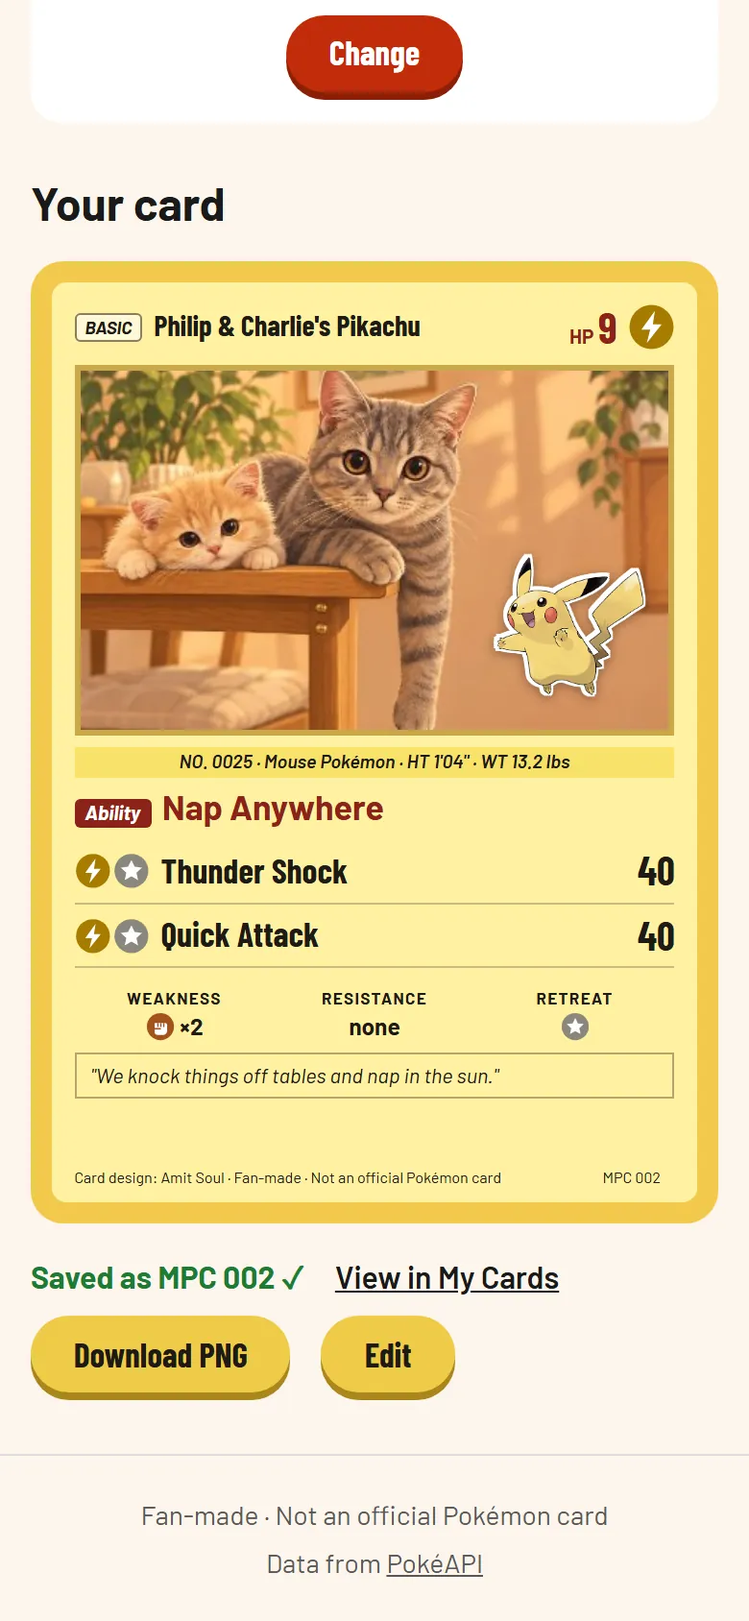
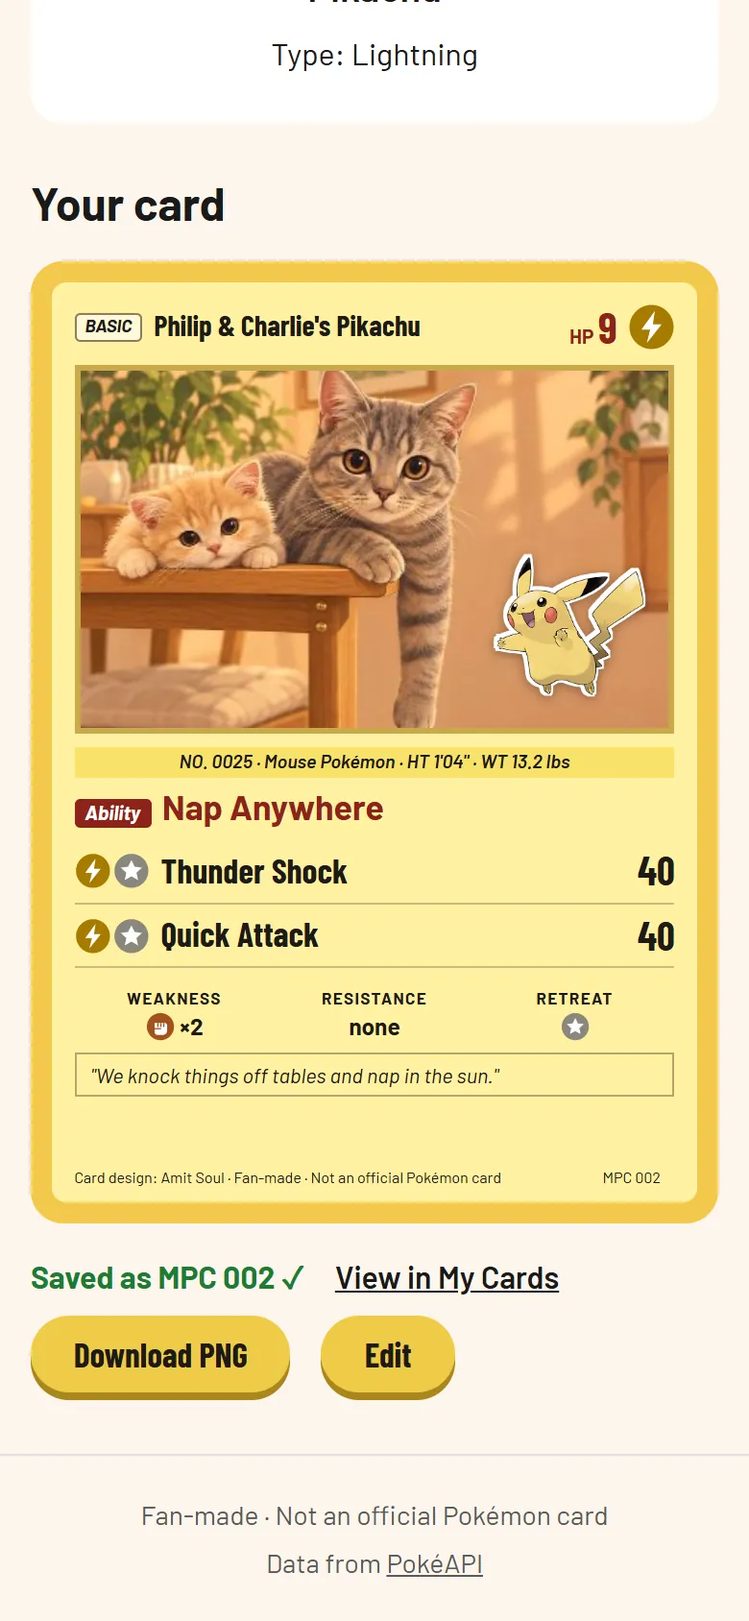
docs: Create page with the Pokémon search — PRD, CARD_SPEC, tasks, checklist, README and phone screenshot (C4)

diff --git a/docs/requirements-checklist.md b/docs/requirements-checklist.md
@@ -12,23 +12,23 @@
 | React + Vite | ✅ | `vite.config.ts`, `src/main.tsx` |
 | TypeScript | ✅ | Task 5 — every file in `src/` is `.ts`/`.tsx`; `tsconfig.json` + `tsconfig.app.json` (`strict: true`) + `tsconfig.node.json` |
 | Types (`type`/`interface`) for API data | ✅ | `src/types/pokemon.ts` (`SpeciesCountResponse`, `PokemonListResponse`, `PokemonDetailsResponse`, `TypeResponse`, plus `PokemonSummary`, `CardType`); typed fetch `fetchJson<T>` in `src/utils/api.ts` |
-| Types for every component's props | ✅ | A `…Props` interface in each component that has props: `NavBar`, `Logo`, `SiteFooter`, `PokemonList`, `PokemonListItem`, `PokemonDetails`, `SearchBar`, `CardTypeFilter`, `FavoritePokemonField`, `FormField`, `CardForm`, `PhotoField`, `InlineConfirm`, `AttackList`, `AttacksBlock`, `PokeCard`, `TypeSymbol`, `WeaknessRow`, `CardSticker`, `SavedNotice`, `SavedCardItem`, `FavoriteButton`, `DownloadPngButton` (`NavBar`, `Logo` and `SiteFooter` have no props). Callbacks are typed too |
+| Types for every component's props | ✅ | A `…Props` interface in each component that has props: `NavBar`, `Logo`, `SiteFooter`, `PokemonList`, `PokemonListItem`, `PokemonDetails`, `SearchBar`, `CardTypeFilter`, `FormField`, `CardForm`, `PokemonPicker`, `PokemonPreview`, `PhotoField`, `InlineConfirm`, `AttackList`, `AttacksBlock`, `PokeCard`, `TypeSymbol`, `WeaknessRow`, `CardSticker`, `SavedNotice`, `SavedCardItem`, `FavoriteButton`, `DownloadPngButton` (`NavBar`, `Logo` and `SiteFooter` have no props). Callbacks are typed too |
 | No `any` | ✅ | None in `src/`; `strict: true` blocks hidden `any`, and the lint rule `typescript/no-explicit-any` (error) in `.oxlintrc.json` blocks written ones |
 | `npm run dev` with no console errors | ✅ | Checked by hand after every task, and at the end of task 12 with the Console open (Preserve log) through the whole flow: list search, Type filter and Load more; details; Create with a photo, drag the sticker, Edit, Create, Save, Download PNG; My Cards heart, Favorites, Delete ("Keep it", then "Yes"); `/abc`, `/pokemon/abc`, `/create/abc`. No errors or warnings from our code. Only `/pokemon/99999` shows the browser's own "404" network line (twice in dev, because of React StrictMode): that is the API's answer, and the page shows "Pokémon not found". The tests also fail on any `console.error` or `console.warn` (`src/test/setup.ts`) |
 | `npm run build` passes | ✅ | `tsc -b && vite build` in `package.json` — type check, then build; passes after task 5 |
-| At least 4 own components (not pages), one per file | ✅ | 23 in `src/components/`: `NavBar`, `Logo`, `SiteFooter`, `PokemonList`, `PokemonListItem`, `PokemonDetails`, `SearchBar`, `CardTypeFilter`, `FavoritePokemonField`, `FormField`, `CardForm`, `PhotoField`, `InlineConfirm`, `AttackList`, `AttacksBlock`, `PokeCard`, `TypeSymbol`, `WeaknessRow`, `CardSticker`, `SavedNotice`, `SavedCardItem`, `FavoriteButton`, `DownloadPngButton`. (`ChangeWarning` was replaced by the general `InlineConfirm`.) Pages are separate, in `src/pages/`: `HomePage`, `PokemonListPage`, `PokemonDetailsPage`, `CreateCardPage`, `MyCardsPage`, `NotFoundPage` |
+| At least 4 own components (not pages), one per file | ✅ | 24 in `src/components/`: `NavBar`, `Logo`, `SiteFooter`, `PokemonList`, `PokemonListItem`, `PokemonDetails`, `SearchBar`, `CardTypeFilter`, `PokemonPicker`, `PokemonPreview`, `FormField`, `CardForm`, `PhotoField`, `InlineConfirm`, `AttackList`, `AttacksBlock`, `PokeCard`, `TypeSymbol`, `WeaknessRow`, `CardSticker`, `SavedNotice`, `SavedCardItem`, `FavoriteButton`, `DownloadPngButton`. (`ChangeWarning` was replaced by the general `InlineConfirm`.) (`FavoritePokemonField` became `PokemonPreview` when the Pokémon became a search.) Pages are separate, in `src/pages/`: `HomePage`, `PokemonListPage`, `PokemonDetailsPage`, `CreateCardPage`, `MyCardsPage`, `NotFoundPage` |
 | React Router | ✅ | `react-router` v8: `BrowserRouter` in `src/main.tsx`, `Routes`/`Route` in `src/App.tsx` |
 | List page | ✅ | `/pokemon` → `src/pages/PokemonListPage.tsx` (`/` is the landing page, `src/pages/HomePage.tsx`) |
 | Details page `/pokemon/:id` with `useParams` | ✅ | `src/pages/PokemonDetailsPage.tsx` reads `id` with `useParams` (checked by `parsePokemonId` in `src/utils/pokemonId.ts`) and fetches the details; display in `src/components/PokemonDetails.tsx` |
-| At least 2 more pages where the user does something | ✅ | 1) **Create card** (`/create`, `/create/:id`, `src/pages/CreateCardPage.tsx`): choose a Pokémon, fill 5 validated fields with a photo, see and save the card, download it. 2) **My Cards** (`/my-cards`, `src/pages/MyCardsPage.tsx`): saved cards, favorites, All/Favorites filter, download, delete. (The 404 page doesn't count — the user doesn't do anything there.) |
+| At least 2 more pages where the user does something | ✅ | 1) **Create card** (`/create`, `/create/:id`, `src/pages/CreateCardPage.tsx`): search and pick a Pokémon, fill 5 validated fields with a photo, see and save the card, download it. 2) **My Cards** (`/my-cards`, `src/pages/MyCardsPage.tsx`): saved cards, favorites, All/Favorites filter, download, delete. (The 404 page doesn't count — the user doesn't do anything there.) |
 | Nav menu with `Link`/`NavLink` | ✅ | `src/components/NavBar.tsx`: the page header with the logo (`Logo.tsx`, a `Link` to `/`) and three `NavLink`s: "Find a Pokémon" (`/pokemon`, also active on `/pokemon/:id`, not on an invalid id), "Create card" (also on `/create/:id`, not on an invalid id) and "My Cards"; the active link is highlighted |
 | List with `map` + unique `key` | ✅ | `src/components/PokemonList.tsx` (`key={pokemon.id}`), `CardTypeFilter.tsx` |
 | Clicking an item opens its details page | ✅ | Each card in `src/components/PokemonListItem.tsx` is a `Link` to `/pokemon/{id}` |
-| Data passed via props | ✅ | `HomePage` → `PokeCard` (the two example cards, from `src/data/sampleCards.ts`); `PokemonListPage` → `PokemonList` → `PokemonListItem`; `PokemonListPage` → `SearchBar`, `CardTypeFilter`; `PokemonDetailsPage` → `PokemonDetails`, `AttacksBlock` (→ `AttackList` → `TypeSymbol`), `WeaknessRow`; `CreateCardPage` → `FavoritePokemonField`, `InlineConfirm`, `CardForm` (→ `FormField`, `PhotoField`), `PokeCard` (→ `CardSticker`, `AttacksBlock`, `WeaknessRow`, `TypeSymbol`), `SavedNotice`, `DownloadPngButton`; `MyCardsPage` → `SavedCardItem` (→ `PokeCard`, `FavoriteButton`, `DownloadPngButton`, `InlineConfirm`) |
+| Data passed via props | ✅ | `HomePage` → `PokeCard` (the two example cards, from `src/data/sampleCards.ts`); `PokemonListPage` → `PokemonList` → `PokemonListItem`; `PokemonListPage` → `SearchBar`, `CardTypeFilter`; `PokemonDetailsPage` → `PokemonDetails`, `AttacksBlock` (→ `AttackList` → `TypeSymbol`), `WeaknessRow`; `CreateCardPage` → `CardForm` (→ `PokemonPicker`, `FormField`, `PhotoField`), `PokemonPreview`, `PokemonPicker` (above a shown card), `PokeCard` (→ `CardSticker`, `AttacksBlock`, `WeaknessRow`, `TypeSymbol`), `SavedNotice`, `DownloadPngButton`; `MyCardsPage` → `SavedCardItem` (→ `PokeCard`, `FavoriteButton`, `DownloadPngButton`, `InlineConfirm`) |
 | `fetch` inside `useEffect` with loading / error / data states | ✅ | `src/pages/PokemonListPage.tsx` (list, Type filter); `src/hooks/usePokemonDetails.ts` (one Pokémon, plus "Pokémon not found" for API 404); `src/hooks/usePokemonCardInfo.ts` (genus + attacks, via `src/utils/moveApi.ts`) — used by the details page and the Create card page, each with Try again |
 | Search or filter | ✅ | `SearchBar.tsx` (by name) + `CardTypeFilter.tsx` (by Type), logic in `PokemonListPage.tsx`; both kept in the URL (`/pokemon?q=char&type=Fire`) |
-| Vitest: 5+ passing tests on real logic | ✅ | 208 logic tests in 16 files in `src/utils/`: `cardForm.test.ts` (46), `cardRules.test.ts` (28, incl. every CARD_SPEC example), `savedCards.test.ts` (27, incl. the never-reused number and broken storage), `cardTheme.test.ts` (15, incl. color distance and contrast), `sticker.test.ts` (13), `cardType.test.ts` (11), `moves.test.ts` (11), `photo.test.ts` (10), `downloadCardPng.test.ts` (8), `moveApi.test.ts` (8), `filterPokemon.test.ts` (6), `navigation.test.ts` (6), `pokemonDetails.test.ts` (6), `pokemonId.test.ts` (6), `text.test.ts` (5), `api.test.ts` (2) |
-| `npm test` passes | ✅ | `"test": "vitest run"` in `package.json`: 40 files, 358 tests (208 logic + 4 hook + 134 component/page + 12 more: `App.test.tsx` 5, `indexCss.test.ts` 4, `src/data/sampleCards.test.ts` 3), exit code 0. Any `console.error` or `console.warn` during a test makes it fail (`src/test/setup.ts`) |
+| Vitest: 5+ passing tests on real logic | ✅ | 227 logic tests in 18 files in `src/utils/`: `cardForm.test.ts` (50), `cardRules.test.ts` (28, incl. every CARD_SPEC example), `savedCards.test.ts` (27, incl. the never-reused number and broken storage), `cardTheme.test.ts` (15, incl. color distance and contrast), `sticker.test.ts` (13), `cardType.test.ts` (11), `moves.test.ts` (11), `photo.test.ts` (10), `downloadCardPng.test.ts` (8), `filterPokemon.test.ts` (8), `moveApi.test.ts` (8), `pokemonSearch.test.ts` (7), `navigation.test.ts` (6), `pokemonDetails.test.ts` (6), `pokemonId.test.ts` (6), `pokemonListApi.test.ts` (5), `text.test.ts` (5), `api.test.ts` (3) |
+| `npm test` passes | ✅ | `"test": "vitest run"` in `package.json`: 45 files, 402 tests (227 logic + 7 hook + 156 component/page + 12 more: `App.test.tsx` 5, `indexCss.test.ts` 4, `src/data/sampleCards.test.ts` 3), exit code 0. Any `console.error` or `console.warn` during a test makes it fail (`src/test/setup.ts`) |
 | `@vitest/ui` with a `test:ui` script | ✅ | `"test:ui": "vitest --ui"` in `package.json`; checked in the browser, all green |
 | Own CSS | ✅ | `src/index.css` only, no UI library. The card uses container query units (design px × card width / 380) and self-hosted fonts (`src/assets/fonts`, SIL Open Font License). The site look (task 12, after two design rounds): warm paper, the logo and a blue menu bar with a yellow chip for the current page, page and section titles in Lilita One, round red and yellow buttons, plain white panels and tiles, faint stars in the side margins, one clear focus ring (two-color on the menu). All fonts are self-hosted (no outside requests). Class selectors only, so no rule reaches the card (checked by `src/indexCss.test.ts`); the card's PNG was compared pixel by pixel after every step |
 | Works on narrow screens | ✅ | At the end of task 12, at 320, 375 and 768px: no page scrolls sideways (`/`, `/pokemon`, `/pokemon/25`, `/pokemon/99999`, `/create/25`, `/abc`, `/create/abc`, `/my-cards`); at 320px the details page's Attacks box and Weakness row fit, and "Create my card with Pikachu" is 45px tall; the 404 page looks right. On a real iPhone (task 12d, before the redesign): the list, details, Create card with the card and the sticker dragged with a finger, My Cards, and the PNG in Safari. The card shrinks as one piece (design px × card width / 380) |
@@ -51,5 +51,5 @@
 | Requirement | Status | Where in the code / which task |
 |---|---|---|
 | localStorage favorites | ✅ | `favorite: boolean` on each saved card in localStorage (`src/utils/savedCards.ts`); the heart (`src/components/FavoriteButton.tsx`) on every card in My Cards; "All (n)" / "Favorites (n)" kept in the URL (`/my-cards?show=favorites`). **To confirm with the lecturer that favorites inside My Cards count.** |
-| React Testing Library | ✅ | 134 tests in 20 files, run in jsdom (setup in `src/test/setup.ts`, which also resets fakes, the move cache and localStorage after every test, and fails a test on any console error or warning): `PokeCard.test.tsx` (20), `CardSticker.test.tsx` (11), `CardForm.test.tsx` (10), `NavBar.test.tsx` (10), `PhotoField.test.tsx` (7), `TypeSymbol.test.tsx` (6), `AttackList.test.tsx` (4), `CardTypeFilter.test.tsx` (4), `WeaknessRow.test.tsx` (4), `DownloadPngButton.test.tsx` (3), `FavoriteButton.test.tsx` (3), `FavoritePokemonField.test.tsx` (3), `Logo.test.tsx` (3), `PokemonListItem.test.tsx` (2), `SearchBar.test.tsx` (2), `SiteFooter.test.tsx` (1), and whole pages: `CreateCardPage.test.tsx` (15), `MyCardsPage.test.tsx` (15), `PokemonDetailsPage.test.tsx` (6), `HomePage.test.tsx` (5). Plus 4 hook tests with `renderHook` in `src/hooks/usePokemonCardInfo.test.ts` |
+| React Testing Library | ✅ | 156 tests in 22 files, run in jsdom (setup in `src/test/setup.ts`, which also resets fakes, the move cache and localStorage after every test, and fails a test on any console error or warning): `PokeCard.test.tsx` (20), `CardForm.test.tsx` (12), `CardSticker.test.tsx` (11), `NavBar.test.tsx` (10), `PokemonPicker.test.tsx` (10), `PhotoField.test.tsx` (7), `TypeSymbol.test.tsx` (6), `AttackList.test.tsx` (4), `CardTypeFilter.test.tsx` (4), `WeaknessRow.test.tsx` (4), `DownloadPngButton.test.tsx` (3), `FavoriteButton.test.tsx` (3), `Logo.test.tsx` (3), `PokemonPreview.test.tsx` (3), `PokemonListItem.test.tsx` (2), `SearchBar.test.tsx` (2), `SiteFooter.test.tsx` (1), and whole pages: `CreateCardPage.test.tsx` (19), `MyCardsPage.test.tsx` (15), `HomePage.test.tsx` (8), `PokemonDetailsPage.test.tsx` (6), `PokemonListPage.test.tsx` (3). Plus 7 hook tests with `renderHook`: `src/hooks/usePokemonCardInfo.test.ts` (4) and `src/hooks/usePokemonList.test.ts` (3) |
 | 404 page | ✅ | `src/pages/NotFoundPage.tsx`: route `*` in `src/App.tsx` for unknown URLs, and for `/pokemon/<invalid id>` |

diff --git a/tasks.md b/tasks.md
@@ -23,7 +23,7 @@
       Two ways in: "Create my card with <Pokémon>" on the details page → `/create/:id`, or the new nav link "Create card" → `/create`. Nav: Pokémon · Create card. First field "Your favorite Pokémon" (image, name, Type, "Change" → list, with a warning that the answers will be cleared only if a field has a value; no draft saving); without a Pokémon only "Choose your favorite Pokémon" + a button to the list, other fields hidden. Fields and errors per [CARD_SPEC.md](CARD_SPEC.md#form-fields-create-card-page): Your name, Age (HP), Photo (resized to 400px wide, JPEG), Superpower, About you (with a counter). Errors on blur or submit; "Create my card" always enabled — with problems it shows all errors and focuses the first invalid field; submit shows a summary (the real card comes in tasks 9–10). Validation in `src/utils/` with tests, plus 1 RTL test for the error messages.
       *Done when:* "Create my card with Pikachu" on `/pokemon/25` opens `/create/25` with Pikachu's image, name and Lightning; the nav link "Create card" opens `/create` with only "Choose your favorite Pokémon" and a button to the list; "Change" with a filled field warns, then goes to the list, and with an empty form goes to the list without a warning; `/create/abc` shows the 404 page and `/create/99999` shows "Pokémon not found"; leaving a field with a wrong value shows its error (e.g. "Age must be 1–120" for 150, "Use English letters only (2–12)" for "Amit3"), but typing doesn't; a name of only spaces counts as empty, and "  Amit  " is accepted as "Amit"; a non-image file shows "Please upload an image"; the About you counter counts to 80, and "Hi :)" is rejected (":" and ")" aren't allowed); clicking "Create my card" with problems shows every field's error and moves focus to the first invalid field; as "Amit", age 30, with Pikachu, submit shows "Amit's Pikachu · HP 30 · Lightning"; the validation tests and the RTL form test pass.
       *Done:* Create card page (`/create`, `/create/:id`), favorite Pokémon, 5 validated fields with photo resize, summary + Edit, Change warning, nav link. Tests: validation, photo, form and page (RTL).
-      *Changed in task 12:* names may be 2–16 characters and may join two names with " & " (error "Use English letters only (2–16)"); the nav link "Pokémon" is now "Find a Pokémon".
+      *Changed in task 12:* names may be 2–16 characters and may join two names with " & " (error "Use English letters only (2–16)"); the nav link "Pokémon" is now "Find a Pokémon". `/create` now opens the full form; the first field is a Pokémon search (pick from up to 10 matches), the URL follows the pick, and the answers are kept when the Pokémon changes, so "Change" and its warning are gone.
 - [x] **9 · Card data per [CARD_SPEC.md](CARD_SPEC.md) + tests** — Helpers: genus from `/pokemon-species/{id}`, height/weight in ft/in and lbs, attacks from `/move/{name}` (up to 2, 1 if only one, Ditto-style fallback, damage rounded to 10, cost by damage, Dragon → Colorless), Weakness/Resistance from the fixed tables with the conflict rules, retreat by weight. Tests for each. A `PokeCard` component with every field in order, plain text, no design yet. The details page shows the same attacks and Weakness/Resistance.
       *Done when:* Creating a card as "Amit", age 30, with Pikachu shows, top to bottom: "BASIC", "Amit's Pikachu", "HP 30", Lightning; photo + artwork; "NO. 0025 · Mouse Pokémon · HT 1'04" · WT 13.2 lbs"; the Ability; 2 attacks with damage and cost; Weakness Fighting ×2, no Resistance, Retreat 1; the flavor text; the bottom line. Charmander → Weakness Water; Gardevoir → Psychic, Weakness Darkness, Resistance Fighting −30; Zapdos → Weakness Lightning, Resistance Fighting −30; Ditto → 1 move, no damage, cost 1 Colorless. All tests pass.
       *Done:* card rules (damage, cost, Weakness/Resistance with the conflict rules, retreat, Pokédex strip), genus + 2 attacks from the API (level-up order, batches of 4, cap 20, cache, Ditto/Struggle fallbacks), attacks + Weakness line on the details page, and `PokeCard` (plain text) on `/create/:id`. All CARD_SPEC examples are tests.
@@ -35,4 +35,4 @@
       *Done:* 11a safe localStorage functions (versioned snapshot, never-reused card number, broken data never crashes) · 11b Save on the Create page (MPC number on the card, sticker locks) · 11c My Cards page with heart favorites, All/Favorites in the URL and Delete with an inline confirm · 11d Download PNG with html-to-image (760×1064, fonts, Safari double capture).
 - [x] **12 · README + final checks + polish** — `README.md`: what the app does, how to run it and the tests (`npm test`, `npm run test:ui`), the API (PokéAPI), and the fan-made disclaimer. Final check of every item in [docs/requirements-checklist.md](docs/requirements-checklist.md), testing on phone/tablet, polish. The polish grew into card fixes and a site redesign, all inside this task (the plan allows at most 12 tasks).
       *Done when:* A friend can run the app and the tests from the README alone; `npm run build` and `npm test` pass; the console has no errors during the full flow; every page works on a real phone and in DevTools tablet/desktop sizes; every mandatory row in the checklist is ✅.
-      *Done:* 12a site footer with the fan-made line + light-only colors · 12b page titles, own favicon, package name · 12c tests fail on any console error or warning · 12d manual checks on desktop Chrome and a real iPhone, including the PNG in Safari · 12e1–12e3 card fixes (Type symbols never clipped, distinct tints with tested contrast, sticker margin) · redesign R1–R4 (list moved to `/pokemon`, landing page at `/` with two example cards, logo drawn from Lilita One, "Sticker Scrapbook" look) · names with " & " and up to 16 characters · card name no longer cuts g, j, p, q, y · no white strip next to the photo in the PNG · README in English with screenshots and credits. The PNG was compared pixel by pixel after every step.
+      *Done:* 12a site footer with the fan-made line + light-only colors · 12b page titles, own favicon, package name · 12c tests fail on any console error or warning · 12d manual checks on desktop Chrome and a real iPhone, including the PNG in Safari · 12e1–12e3 card fixes (Type symbols never clipped, distinct tints with tested contrast, sticker margin) · redesign R1–R4 (list moved to `/pokemon`, landing page at `/` with two example cards, logo drawn from Lilita One, "Sticker Scrapbook" look) · names with " & " and up to 16 characters · card name no longer cuts g, j, p, q, y · no white strip next to the photo in the PNG · new Create page (C1–C4): Pokémon search in the form, full form on `/create` · README in English with screenshots and credits. The PNG was compared pixel by pixel after every step.

diff --git a/CARD_SPEC.md b/CARD_SPEC.md
@@ -15,13 +15,13 @@
 - **Bottom line:** "Card design: Amit Soul" · card number "MPC 001" · "Fan-made · Not an official Pokémon card".
 
 ## Form fields (Create card page)
-Filled on `/create/:id` after a Pokémon is chosen. All fields are required and English only. Checked by `src/utils/cardForm.ts`.
+Filled on `/create` or `/create/:id`. All fields are required and English only. Checked by `src/utils/cardForm.ts`.
 
 **Cleaning before the check (every text field):** spaces at the start and end are ignored, and a field with only spaces counts as empty. In Your name and Superpower, two or more spaces in a row become one ("Mary  Ann" → "Mary Ann"). The curly apostrophe `’` (iPhone "smart punctuation") counts as `'`.
 
 | Field | Rule | Empty | Wrong | On the card |
 |---|---|---|---|---|
-| Your favorite Pokémon | Chosen via list → details → "Create my card with <Pokémon>"; shown with image, name, Type and a "Change" button | — | — | Artwork, name, Type, attacks… |
+| Your favorite Pokémon | Picked from the search under the field (up to 10 matches: names starting with the text first, then by number; "contains", any case, a space counts as a hyphen), or comes from the details page's "Create my card with <Pokémon>" (`/create/25`). Leaving the field with an exact name ("pikachu") picks it. Shown with image, name and Type | Please choose your favorite Pokémon | Choose a Pokémon from the list | Artwork, name, Type, attacks… |
 | Your name | 2–16 characters: English letters A–Z, with ONE space, hyphen or apostrophe between letters, or " & " (a space on each side) between two names; starts and ends with a letter (Mary-Ann, O'Neil, Mary Ann, Philip & Charlie ok; "--", "-Amit", "Mary--Ann", "Amit&Amit", "& Amit" wrong). 16 because the longest names fit next to the HP on one line; only with a 12-letter Pokémon do the longest wrap to 2 lines (see Card design) | Please enter your name | Use English letters only (2–16) | "<Name>'s <Pokémon>" (e.g. "Amit's Pikachu") |
 | Age (HP) | Digits only, whole number 1–120; a leading zero is fine ("025" → 25); "25.5", "1e2", "-5" are wrong | Please enter your age | Age must be 1–120 | HP |
 | Photo | JPG, PNG or WebP (not GIF or HEIC), at most 10 MB — checked on the ORIGINAL file before it is loaded or resized. Then resized to 400px wide (same shape, never made bigger, no height limit), white background (a transparent PNG doesn't turn black), saved as a JPEG data URL, quality 0.85 (≈ 55–80 KB). Choosing a new photo replaces the old one; a wrong new file removes the old one. Not cropped here — the card crops it with CSS `object-fit: cover` (task 10) | Please upload an image | Wrong type: Please upload a JPG, PNG or WebP image · Too big: Image must be under 10 MB · Broken file: We couldn't read this image. Please try another one. · Submit while preparing: Please wait until your photo is ready | Illustration |
@@ -29,9 +29,10 @@ Filled on `/create/:id` after a Pokémon is chosen. All fields are required and 
 | About you | Up to 80 characters (counted after trimming): English letters, the letter é/É (as in "Pokémon"), numbers, spaces and exactly this punctuation: `. , ! ? ' -`. The input stops at 80 characters; the counter shows the typed length, e.g. "12 / 80" | Please write something about you | English only, up to 80 characters | Flavor text |
 
 - Errors appear when leaving a field (blur) or on submit, not while typing.
-- "Create my card" is always enabled. Clicking it with problems shows ALL field errors and moves focus to the first invalid field (form order: name, age, photo, superpower, about you).
+- "Create my card" is always enabled. Clicking it with problems shows ALL field errors and moves focus to the first invalid field (form order: Pokémon, name, age, photo, superpower, about you).
 - Photo: the button "Choose a photo" (then "Choose another photo") opens the phone's camera or gallery; the hint "JPG, PNG or WebP, up to 10 MB" is always shown; while resizing: "Preparing your photo..."; a wrong file shows its error right away; "Remove photo" removes it without an error (the error comes on submit). Sideways phone photos are turned upright by the browser (EXIF).
-- "Change" (favorite Pokémon) warns that the answers will be cleared only if at least one field has a value; with an empty form it changes without a warning.
+- Changing the Pokémon never clears the answers, so there is no warning. Typing over the chosen name un-picks it (the URL goes back to `/create`). Above a shown card, a new pick goes back to the form with every answer and the photo kept, and the sticker starts at its usual place.
+- A link to `/create` while on the Create page (e.g. "Create card" in the menu) starts a fresh, empty form.
 
 ## Rules
 

diff --git a/README.md b/README.md
@@ -33,7 +33,7 @@ The two example cards use our own illustrations, published with permission.
 
 - **Find a Pokémon:** every species from PokéAPI, 50 at a time with *Load more*, with search by name and a filter by Type. Search and filter are kept in the URL.
 - **Details:** official artwork, number, Type, weight, two attacks with their cost, and Weakness / Resistance / Retreat.
-- **Create card:** choose your favorite Pokémon, then fill in your name, age (the card's HP), a photo, a superpower and a line about you. Every field is checked as you go. The card shows your photo with the Pokémon as a sticker you can drag (mouse, finger or arrow keys).
+- **Create card:** search for your favorite Pokémon and pick it, then fill in your name, age (the card's HP), a photo, a superpower and a line about you. Every field is checked as you go. The card shows your photo with the Pokémon as a sticker you can drag (mouse, finger or arrow keys).
 - **Save and My Cards:** cards are saved in the browser (localStorage) with a number that is never reused (MPC 001, MPC 002, …). Mark favorites with a heart, filter All / Favorites, delete with a confirm.
 - **Download PNG:** every saved card can be downloaded as a 760 × 1064 PNG.
 
@@ -46,8 +46,8 @@ The card's rules (Types, Weakness and Resistance, attacks, units, design) are in
 | `/` | Landing page: what the app does, two example cards, how it works, about me |
 | `/pokemon` | Find a Pokémon: the list with search (`?q=`) and Type filter (`?type=`) |
 | `/pokemon/:id` | Details of one Pokémon (the id is read with `useParams`) |
-| `/create` | Create card, before a Pokémon is chosen |
-| `/create/:id` | Create card with that Pokémon |
+| `/create` | Create card: the full form, with the Pokémon search empty |
+| `/create/:id` | Create card with that Pokémon chosen (the URL follows the search) |
 | `/my-cards` | My Cards (`?show=favorites` for favorites only) |
 | anything else | 404 page |
 
@@ -102,7 +102,7 @@ npm run test:ui   # the Vitest UI
 src/
   pages/        the 6 pages (one per route)
   components/   the 23 components
-  hooks/        usePokemonDetails, usePokemonCardInfo
+  hooks/        usePokemonDetails, usePokemonCardInfo, usePokemonList
   utils/        the logic (no React), each with its tests
   data/         the landing page's two example cards
   types/        types for the PokéAPI data
@@ -124,9 +124,10 @@ docs/           requirements checklist, logo, screenshots
 | `AttacksBlock`, `AttackList` | The attacks (with loading and error) and their rows |
 | `WeaknessRow` | Weakness, Resistance and Retreat |
 | `TypeSymbol` | Our own SVG symbol for each of the 10 Types |
-| `FavoritePokemonField` | The chosen Pokémon on the Create page, with *Change* |
+| `PokemonPicker` | "Your favorite Pokémon": search and pick a Pokémon (the WAI-ARIA combobox pattern) |
+| `PokemonPreview` | The chosen Pokémon's image, name and Type under the search |
 | `CardForm`, `FormField`, `PhotoField` | The Create form, one text field, the photo field |
-| `InlineConfirm` | The "are you sure?" box (change Pokémon, delete a card) |
+| `InlineConfirm` | The "are you sure?" box (delete a card) |
 | `PokeCard` | The card itself |
 | `CardSticker` | The Pokémon sticker on the photo (draggable before saving) |
 | `SavedNotice` | "Saved as MPC 00X ✓" |

diff --git a/PRD.md b/PRD.md
@@ -13,7 +13,7 @@ A header on every page: the logo "My Poké Card" (a link to `/`) and a nav menu 
 - **`/` Landing page** — What the app does, with "Create your card" → `/create` and "Find a Pokémon" → `/pokemon`; two example cards (real cards with fixed data, no API calls: "Amit & Amit" with Squirtle and "Philip & Charlie" with Pikachu, with our own illustrations); "How it works" in 3 steps linking to the list, Create card and My Cards; and "About me".
 - **`/pokemon` Pokémon list** — A grid of Pokémon (name + image) with a search box (by name), a Type filter and "Load more". Clicking a Pokémon opens its details page.
 - **`/pokemon/:id` Details** — The id comes from the URL (`useParams`). Official artwork, number, Type, weight, attacks, Weakness/Resistance, and a "Create my card with <Pokémon>" button → `/create/:id`.
-- **`/create` and `/create/:id` Create card** — First field: "Your favorite Pokémon" (image, name, Type, "Change" → back to the list, with a warning if answers would be lost). Without a Pokémon (`/create`), only "Choose your favorite Pokémon" with a button to the list. Then: Your name (up to 16 characters; two names joined with " & " are fine, e.g. "Philip & Charlie"), Age (HP), Photo, Superpower, About you — English only, rules and errors in [CARD_SPEC.md](CARD_SPEC.md#form-fields-create-card-page). After "Create my card": the card replaces the form, with Edit, Save and Download PNG. `/create/abc` → 404; `/create/99999` → "Pokémon not found".
+- **`/create` and `/create/:id` Create card** (one route, `/create/:id?`) — The full form opens right away. First field: "Your favorite Pokémon", a search: type part of a name and pick from up to 10 matches with small images (mouse, finger or ↓/↑ + Enter). The chosen Pokémon's image, name and Type show under it. Picking puts it in the URL (`/create/25`, replacing the old URL), and everything already typed stays; changing the Pokémon while the card is shown goes back to the form with the answers kept. Then: Your name (up to 16 characters; two names joined with " & " are fine, e.g. "Philip & Charlie"), Age (HP), Photo, Superpower, About you — English only, rules and errors in [CARD_SPEC.md](CARD_SPEC.md#form-fields-create-card-page). After "Create my card": the card replaces the form, with Edit, Save and Download PNG. `/create/abc` → 404; `/create/99999` → "Pokémon not found".
 - **`/my-cards` My Cards** — Saved cards from localStorage: view, download, delete. A heart on each card marks it as a favorite (bonus; only after saving), and an "All (n)" / "Favorites (n)" filter is kept in the URL (`/my-cards?show=favorites`).
 - **404 page** (bonus) — Any unknown URL, with a link back to the list.
 

diff --git a/PROMPTS.md b/PROMPTS.md
@@ -1912,3 +1912,25 @@
 > The console showed a Vite reload error for FavoritePokemonField.tsx (from the rename while the dev server ran). Confirm nothing in src/ still imports it.
 > Run test, build and lint once more. Don't commit.
 > </pasted_content id="91c8">
+
+**14:59 · claude**
+
+> <pasted_content id="91c8">
+> C3 is committed and pushed (PNG check: MPC 006 and MPC 009 identical to png-baseline-3).
+> Go ahead with C4 (the docs): PRD /create line, CARD_SPEC "Your favorite Pokémon" row and the old Change-warning line, tasks.md task 8 "Changed in task 12" line, checklist rows (pages, components +PokemonPicker, props, test counts), README (/create route and components table).
+> Also check whether any README screenshot shows the old /create screen; if so, tell me before retaking it.
+> Show me the text changes before applying them. Don't commit.
+> </pasted_content id="91c8">
+
+**15:04 · claude**
+
+> <pasted_content id="91c8">
+> All the C4 text changes are approved as shown.
+> The three extra items: yes to all (README features line, README folder tree with usePokemonList, task 12's Done line).
+> phone-card.webp: yes, retake it the same way (fresh, empty Chrome profile, only the approved Philip & Charlie illustration, same size and scroll, profile deleted afterwards). Stage it and show it to me before it goes into docs/screenshots/.
+> Then apply the text changes, run the link check, test, build and lint. Don't commit.
+> </pasted_content id="91c8">
+
+**15:10 · claude**
+
+> phone-card.webp approved. Copy it over docs/screenshots/phone-card.webp, run the link check, test, build and lint once more. Don't commit.
